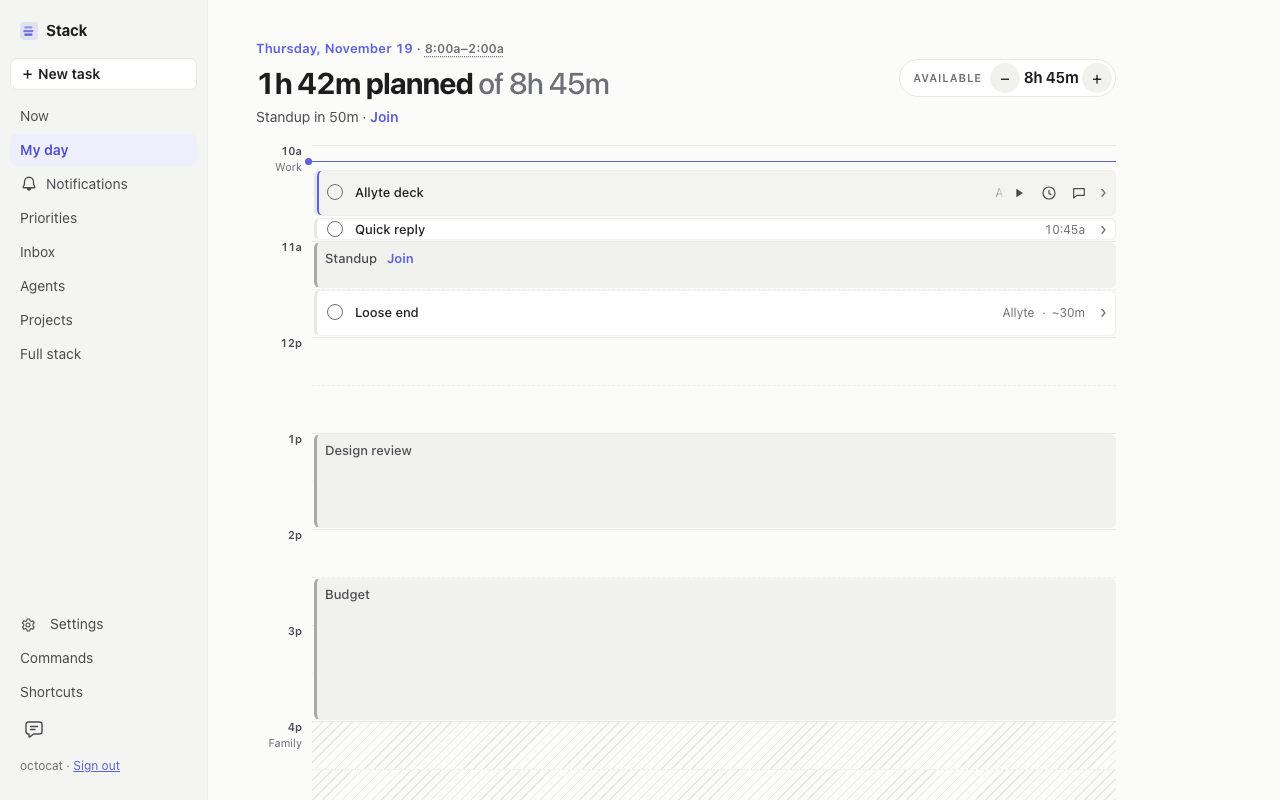
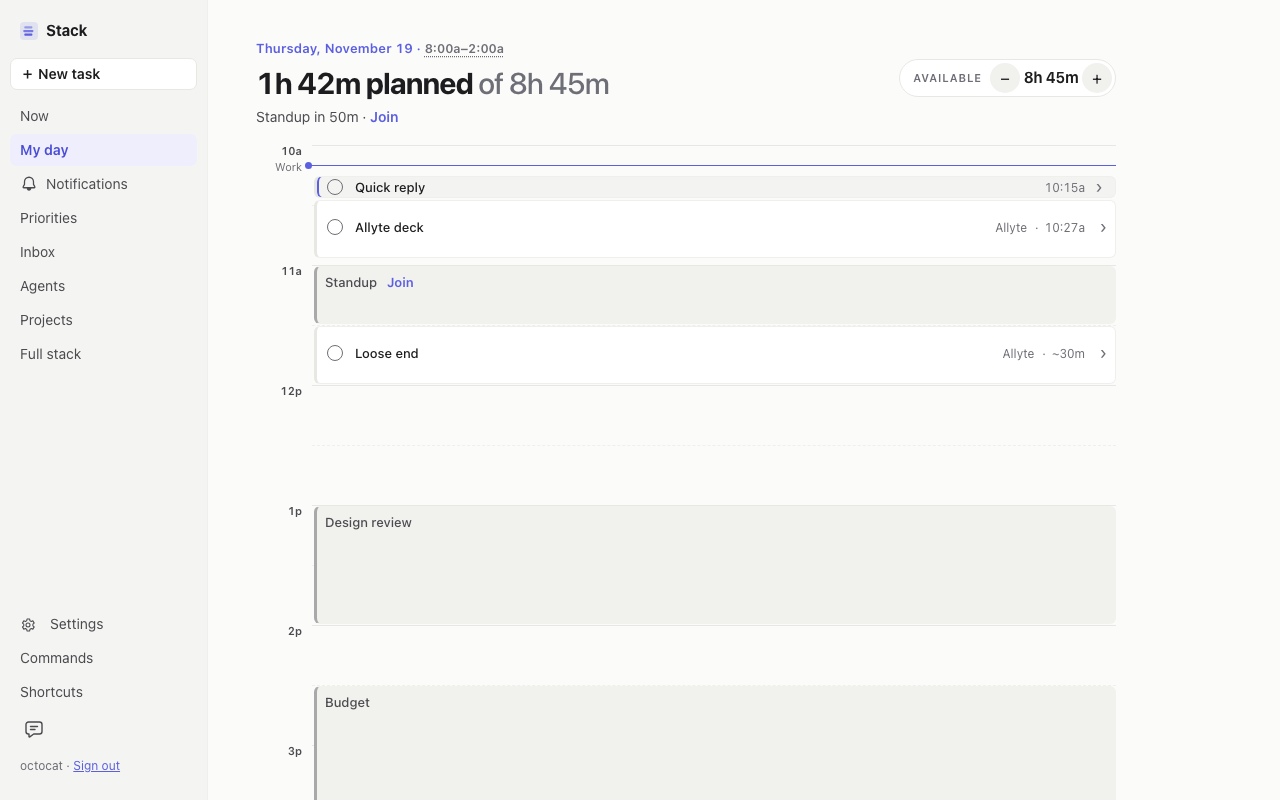
fix(my-day): Size rows from the shortest effort so no block needs a least height
Review round 3. A 12-minute task must keep a 24 px target (44 px on
touch), so 30 minutes is 60 px (112 px on touch). Blocks keep their
true height and never cover or squeeze each other.

diff --git a/web/e2e/myday.spec.ts b/web/e2e/myday.spec.ts
@@ -134,7 +134,7 @@ test.describe('My day v2', () => {
   test('day grid: every 30-minute row has one height; a 60-minute block is exactly double; empty slots stay', async ({ page }, info) => {
     const ev = (id: string, h: number, m: number, min: number) => ({ id, subject: id, start: at(h, m).toISOString(), end: new Date(at(h, m).getTime() + min * 60_000).toISOString(), allDay: false, showAs: 'busy', cancelled: false, online: id === 'Standup', ...(id === 'Standup' ? { joinUrl: 'https://teams.example.test/j' } : {}) });
     await page.clock.install({ time: at(10, 10) });
-    const tasks = [row('allyte:1', 'Allyte deck 🟢', 'allyte'), row('allyte:2', 'Quick reply 🔹', 'allyte'), row('allyte:3', 'Loose end', 'allyte'), row('stack:1', 'Stack fix 🟢', 'stack')];
+    const tasks = [row('allyte:1', 'Quick reply 🔹', 'allyte'), row('allyte:2', 'Allyte deck 🟢', 'allyte'), row('allyte:3', 'Loose end', 'allyte'), row('stack:1', 'Stack fix 🟢', 'stack')];
     const m = await mockApi(page, { tasks, projects: PROJECTS as never });
     m.schedule = schedule();
     m.events = [ev('Standup', 11, 0, 30), ev('Design review', 13, 0, 60), ev('Budget', 14, 30, 90)] as never;
@@ -148,17 +148,24 @@ test.describe('My day v2', () => {
     expect(rows).toHaveLength(32);
     expect(new Set(rows).size).toBe(1);
     const slot = rows[0];
-    expect(slot).toBe(info.project.name === 'mobile' ? 96 : 48);
+    expect(slot).toBe(info.project.name === 'mobile' ? 112 : 60);
     expect(await h('.meeting', 'Standup')).toBe(slot);
     expect(await h('.meeting', 'Design review')).toBe(slot * 2);
     expect(await h('.meeting', 'Budget')).toBe(slot * 3);
     expect(await h('.block', 'Allyte deck')).toBe(slot);
-    expect(await h('.block.short', 'Quick reply')).toBe(slot / 2); // 12 min draws as 15: the target stays 24 px (48 px on touch)
+    expect(await h('.block.short', 'Quick reply')).toBeCloseTo(slot * 0.4, 1); // 12 min: 24 px (44 px on touch), in proportion
+    for (const target of ['.tick', '.row-open']) expect(await plan.locator(`.block.short ${target}`).evaluate((el) => el.getBoundingClientRect().height)).toBeGreaterThanOrEqual(info.project.name === 'mobile' ? 44 : 24);
     await expect(plan.locator('.block').filter({ hasText: 'Loose end' }).locator('.what-meta')).toContainText('~30m'); // an estimate keeps its mark @req FR:web-app/today.plan
     await expect(plan.locator('.block.short .row-acts')).toBeHidden();
-    await expect(plan.locator('.block.short .what-meta .at')).toHaveText('10:45a'); // a start off the half hour shows, on a short block too
-    // The whole height of the short block takes a tap: the block after it does not cover its bottom edge.
-    expect(await plan.locator('.block.short').evaluate((el) => { const r = el.getBoundingClientRect(); return !!document.elementFromPoint(r.left + r.width / 2, r.bottom - 3)?.closest('.block.short'); })).toBe(true);
+    await expect(plan.locator('.block.short .what-meta .at')).toHaveText('10:15a'); // a start off the half hour shows, on a short block too
+    await expect(plan.locator('.block').filter({ hasText: 'Allyte deck' }).locator('.what-meta .at')).toHaveText('10:27a');
+    // Allyte deck starts at 10:27a, right under the short block: full width, and no block covers another.
+    const boxes = await plan.locator('.ui-grid-item').evaluateAll((els) => els.map((el) => { const r = el.getBoundingClientRect(); return { l: r.left, t: r.top, r: r.right, b: r.bottom }; }));
+    const hit = boxes.flatMap((a, i) => boxes.slice(i + 1).filter((b) => a.l < b.r - 0.5 && b.l < a.r - 0.5 && a.t < b.b - 0.5 && b.t < a.b - 0.5));
+    expect(hit).toEqual([]);
+    const [shortBox, deckBox] = [await plan.locator('.ui-grid-item').filter({ hasText: 'Quick reply' }).boundingBox(), await plan.locator('.ui-grid-item').filter({ hasText: 'Allyte deck' }).boundingBox()];
+    expect(deckBox!.width).toBe(shortBox!.width);
+    expect(deckBox!.y).toBeGreaterThanOrEqual(shortBox!.y + shortBox!.height - 0.5);
     // A block sits at its real time: Standup starts 2 rows below the 10:00a grid top.
     const top = (await page.locator('.ui-slot').first().boundingBox())!.y;
     expect(Math.round((await plan.locator('.ui-grid-item').filter({ hasText: 'Standup' }).boundingBox())!.y - top)).toBe(slot * 2);

diff --git a/web/src/ui/DayGrid.tsx b/web/src/ui/DayGrid.tsx
@@ -8,23 +8,26 @@ import './ui.css';
 
 /** Minutes in one row. */
 export const SLOT_MIN = 30;
-/** The least height of an item, in rows (15 minutes): its target stays 24 px, 48 px on touch. */
-export const MIN_SIZE = 0.5;
+/** The least height of an item, in rows (12 minutes, the shortest effort): at the row heights in `ui.css` its target stays 24 px, 44 px on touch. */
+export const MIN_SIZE = 0.4;
 
 export interface GridSpan { /** Start, in minutes after midnight. */ start: number; /** End, in minutes after midnight. */ end: number }
 export interface GridItem extends GridSpan { key: string; node: ComponentChild }
 export interface GridBand extends GridSpan { label: string; /** Tint the band's rows (time that is not for work). */ muted?: boolean }
-/** Where an item sits: `top` and `size` in rows (30 minutes is 1, never under `MIN_SIZE`); `lane` of `lanes` when items overlap in time. */
-export interface Placed<T> { item: T; top: number; size: number; lane: number; lanes: number; /** Drawn higher than its length: it sits above the item after it, so its whole height takes a tap. */ raised?: true }
+/** Where an item sits: `top` and `size` in rows (30 minutes is 1); `lane` of `lanes` when items overlap. */
+export interface Placed<T> { item: T; top: number; size: number; lane: number; lanes: number }
 
 /**
  * Lay items out on the span `from` to `to`: clip each to the span, drop the ones outside it, sort by start,
- * and put items that overlap in time side by side. Pure.
+ * and put items that overlap side by side. An item under 12 minutes is drawn 12 minutes high (never past the last row),
+ * and overlap is judged on the drawn height, so no item ever covers another. Pure.
  */
 export function placeItems<T extends GridSpan>(items: T[], from: number, to: number): Placed<T>[] {
   const shown = items
     .map((item) => ({ item, a: Math.max(item.start, from), z: Math.min(item.end, to) }))
     .filter((x) => x.z > x.a)
+    // Only an item that is short by itself gets the least height; one cut by the span keeps its cut size.
+    .map((x) => (x.item.end - x.item.start < MIN_SIZE * SLOT_MIN ? { ...x, z: Math.min(to, Math.max(x.z, x.a + MIN_SIZE * SLOT_MIN)) } : x))
     .sort((x, y) => x.a - y.a || y.z - x.z);
   const out: Placed<T>[] = [];
   let group: { p: Placed<T>; z: number }[] = [];
@@ -35,10 +38,7 @@ export function placeItems<T extends GridSpan>(items: T[], from: number, to: num
     const taken = new Set(group.filter((g) => g.z > x.a).map((g) => g.p.lane));
     let lane = 0;
     while (taken.has(lane)) lane++;
-    // Only an item that is short by itself gets the least height; one cut by the span keeps its cut size. Never past the last row.
-    const size = (x.z - x.a) / SLOT_MIN;
-    const short = x.item.end - x.item.start < MIN_SIZE * SLOT_MIN && size < MIN_SIZE;
-    const p: Placed<T> = { item: x.item, top: (x.a - from) / SLOT_MIN, size: short ? Math.min(MIN_SIZE, (to - x.a) / SLOT_MIN) : size, lane, lanes: 1, ...(short ? { raised: true as const } : {}) };
+    const p: Placed<T> = { item: x.item, top: (x.a - from) / SLOT_MIN, size: (x.z - x.a) / SLOT_MIN, lane, lanes: 1 };
     group.push({ p, z: x.z });
     groupEnd = Math.max(groupEnd, x.z);
     out.push(p);
@@ -78,7 +78,7 @@ export function DayGrid({ label, from, to, items, bands = [], now, testid }: {
       </ol>
       <ol class="ui-grid-items" aria-label={label} data-testid={testid}>
         {placeItems(items, start, end).map((p) => (
-          <li key={p.item.key} class={`ui-grid-item${p.raised ? ' raised' : ''}`} style={{ '--top': p.top, '--size': p.size, '--lane': p.lane, '--lanes': p.lanes }}>{p.item.node}</li>
+          <li key={p.item.key} class="ui-grid-item" style={{ '--top': p.top, '--size': p.size, '--lane': p.lane, '--lanes': p.lanes }}>{p.item.node}</li>
         ))}
       </ol>
       {now !== undefined && now >= start && now < end && <div class="now-line ui-grid-now" role="img" aria-label={`Now ${clock(now)}`} style={{ '--top': (now - start) / SLOT_MIN }} />}

diff --git a/web/tests/ui-kit.test.tsx b/web/tests/ui-kit.test.tsx
@@ -169,17 +169,20 @@ describe('DayGrid', () => {
   const it30 = { key: 'a', start: 600, end: 630 }, it60 = { key: 'b', start: 660, end: 720 }, it15 = { key: 'c', start: 735, end: 750 }, it12 = { key: 'd', start: 750, end: 762 };
   it('placeItems: size is in proportion to length, top to start', () => {
     const p = placeItems([it60, it30, it15, it12], 600, 780);
-    // an item under 15 minutes keeps the height of 15 minutes, so its target stays usable; lanes follow real times
-    expect(p.map((x) => [x.item.key, x.top, x.size])).toEqual([['a', 0, 1], ['b', 2, 2], ['c', 4.5, 0.5], ['d', 5, 0.5]]);
+    expect(p.map((x) => [x.item.key, x.top, x.size])).toEqual([['a', 0, 1], ['b', 2, 2], ['c', 4.5, 0.5], ['d', 5, 0.4]]);
     expect(p.every((x) => x.lane === 0 && x.lanes === 1)).toBe(true);
-    expect(p.map((x) => x.raised ?? false)).toEqual([false, false, false, true]); // only the one drawn higher than its length sits above the next
   });
   it('placeItems: clips to the span and drops items outside it', () => {
     const p = placeItems([{ key: 'early', start: 540, end: 630 }, { key: 'late', start: 760, end: 840 }, { key: 'out', start: 900, end: 930 }], 600, 780);
     expect(p.map((x) => [x.item.key, x.top, x.size])).toEqual([['early', 0, 1], ['late', 16 / 3, 2 / 3]]);
     // an item cut by the span keeps its cut size; a short one at the end stops at the last row
-    expect(placeItems([{ key: 'cut', start: 560, end: 605 }, { key: 'end', start: 775, end: 780 }], 600, 780).map((x) => [x.item.key, x.size, x.raised ?? false])).toEqual([['cut', 5 / 30, false], ['end', 5 / 30, true]]);
-    expect(placeItems([{ key: 'x', start: 600, end: 612 }, { key: 'y', start: 612, end: 642 }], 600, 780).map((x) => [x.lane, x.lanes])).toEqual([[0, 1], [0, 1]]);
+    expect(placeItems([{ key: 'cut', start: 560, end: 605 }, { key: 'end', start: 775, end: 780 }], 600, 780).map((x) => [x.item.key, x.size])).toEqual([['cut', 5 / 30], ['end', 5 / 30]]);
+    // back to back, 12 minutes and up: one under the other, full width
+    expect(placeItems([{ key: 'x', start: 600, end: 612 }, { key: 'y', start: 612, end: 642 }, { key: 'z', start: 642, end: 672 }], 600, 780).map((x) => [x.size, x.lane, x.lanes])).toEqual([[0.4, 0, 1], [1, 0, 1], [1, 0, 1]]);
+    // an item under 12 minutes is drawn 12 minutes high; overlap is judged on the drawn height, so the next item sits beside it, never under it
+    expect(placeItems([{ key: 'x', start: 600, end: 605 }, { key: 'y', start: 605, end: 635 }], 600, 780).map((x) => [x.size, x.lane, x.lanes])).toEqual([[0.4, 0, 2], [1, 1, 2]]);
+    expect(placeItems([{ key: 'x', start: 600, end: 605 }, { key: 'y', start: 605, end: 610 }], 600, 780).map((x) => [x.lane, x.lanes])).toEqual([[0, 2], [1, 2]]);
+
   });
   it('placeItems: items that overlap sit side by side; later ones get the full width again', () => {
     const p = placeItems([{ key: 'a', start: 600, end: 660 }, { key: 'b', start: 630, end: 690 }, { key: 'c', start: 660, end: 690 }, { key: 'd', start: 720, end: 750 }], 600, 780);
@@ -198,7 +201,6 @@ describe('DayGrid', () => {
     const list = r.querySelector('[data-testid="plan"]')!;
     expect(list.tagName).toBe('OL');
     expect(list.getAttribute('aria-label')).toBe('Day');
-    expect(mount(<DayGrid label="Day" from={600} to={780} items={[{ key: 's', start: 600, end: 612, node: <b>Short</b> }]} />).querySelector('.ui-grid-item')!.classList.contains('raised')).toBe(true);
     const items = [...list.querySelectorAll<HTMLElement>(':scope > li.ui-grid-item')];
     expect(items.map((x) => x.textContent)).toEqual(['Thirty', 'Sixty']);
     expect(items.map((x) => [x.style.getPropertyValue('--top'), x.style.getPropertyValue('--size')])).toEqual([['0', '1'], ['2', '2']]);

diff --git a/web/src/myday.css b/web/src/myday.css
@@ -100,11 +100,16 @@ section.today .ui-grid { margin-top: 12px; }
 section.today .ui-grid .block, section.today .ui-grid .meeting, section.today .ui-grid .email-block { display: block; height: 100%; min-height: 0; padding: 0; }
 section.today .ui-grid .when { position: absolute; width: 1px; height: 1px; overflow: hidden; clip-path: inset(50%); white-space: nowrap; padding: 0; }
 section.today .ui-grid .what { box-sizing: border-box; height: 100%; min-height: 0; margin: 0; overflow: hidden; border: 1px solid var(--line2); border-left: 3px solid var(--line); border-radius: 6px; background: var(--panel); }
-section.today .ui-grid .block .what { align-content: start; align-items: center; padding: 9px 4px 0 6px; }
-section.today .ui-grid .block.short .what { align-content: center; padding-top: 0; padding-bottom: 0; grid-template-columns: 22px minmax(0, 1fr) auto 16px; grid-template-areas: 'tick title meta chev'; }
+section.today .ui-grid .block .what { align-content: start; align-items: center; padding: 14px 4px 0 6px; }
+section.today .ui-grid .block.short .what { align-content: stretch; align-items: stretch; grid-template-rows: minmax(0, 1fr); padding-top: 0; padding-bottom: 0; grid-template-columns: 22px minmax(0, 1fr) auto 16px; grid-template-areas: 'tick title meta chev'; }
 section.today .ui-grid .block.short .row-acts, section.today .ui-grid .block.short .what-meta > :not(.at) { display: none; }
 section.today .ui-grid .block.short .what-meta > .at::before { content: none; }
-section.today .ui-grid .block.short .tick, section.today .ui-grid .block.short .row-open { min-height: 0; height: 100%; max-height: var(--tap); }
+section.today .ui-grid .block.short .tick, section.today .ui-grid .block.short .row-open { min-height: 0; height: auto; align-self: stretch; }
+section.today .ui-grid .block.short .what-title, section.today .ui-grid .block.short .what-meta, section.today .ui-grid .block.short .chev { display: flex; align-items: center; align-self: stretch; }
+section.today .ui-grid .block.short .row-open { flex: 1; min-width: 0; }
+/* The targets take the whole row height: they reach over the block's 1 px border and the 1 px gap, above and below. */
+section.today .ui-grid .block.short .what { overflow: visible; }
+section.today .ui-grid .block.short .tick, section.today .ui-grid .block.short .what-title { margin-block: -2px; }
 section.today .ui-grid .block.short .what-title { white-space: nowrap; }
 section.today .ui-grid .what-meta { overflow: hidden; }
 section.today .ui-grid .meeting .what, section.today .ui-grid .email-block .what { padding: 5px 8px; background: var(--chip); border-color: transparent; border-left-color: color-mix(in srgb, var(--muted) 55%, transparent); }
@@ -115,10 +120,9 @@ section.today .ui-grid .m-line .join { font-weight: 600; text-decoration: none; 
 section.today .ui-grid .when.off { position: static; width: auto; height: auto; clip-path: none; float: right; display: block; font-size: 11px; font-weight: 500; color: var(--muted); padding: 5px 8px 0 0; }
 section.today .ui-grid .when.off small { display: none; }
 @media (max-width: 800px), (hover: none) {
-  section.today .ui-grid .block .what { padding: 2px 2px 0 2px; }
+  section.today .ui-grid .block .what { padding: 8px 2px 0 2px; }
   section.today .ui-grid .block:not(.short) .what-title { white-space: nowrap; }
   section.today .ui-grid .block .tick { align-self: start; margin-top: 0; }
-  section.today .ui-grid .block.short .tick { align-self: center; }
   section.today .ui-grid .block.short .what { grid-template-columns: 44px minmax(0, 1fr) auto 16px; grid-template-areas: 'tick title meta chev'; }
   section.today .ui-grid .block .chev { justify-self: end; padding-right: 6px; }
 }

diff --git a/web/src/ui/ui.css b/web/src/ui/ui.css
@@ -81,7 +81,7 @@
 .ui-back { margin-bottom: var(--fl-s-s); }
 
 /* Day grid: every 30-minute row is --ui-slot high; an item's top and height are its start and length in rows. @req FR:ui-kit/daygrid */
-.ui-grid { position: relative; --ui-slot: 48px; --ui-gutter: 56px; }
+.ui-grid { position: relative; --ui-slot: 60px; --ui-gutter: 56px; }
 .ui-slots, .ui-grid-items { list-style: none; margin: 0; padding: 0; }
 .ui-slot { box-sizing: border-box; height: var(--ui-slot); display: grid; grid-template-columns: var(--ui-gutter) minmax(0, 1fr); }
 .ui-slot::after { content: ''; border-top: 1px dashed var(--line2); }
@@ -92,8 +92,6 @@
 .ui-slot-band { max-width: 100%; overflow: hidden; text-overflow: ellipsis; white-space: nowrap; }
 .ui-grid-items { position: absolute; inset: 0 0 0 var(--ui-gutter); pointer-events: none; }
 .ui-grid-item { position: absolute; box-sizing: border-box; top: calc(var(--top) * var(--ui-slot)); height: calc(var(--size) * var(--ui-slot)); left: calc(var(--lane) * 100% / var(--lanes)); width: calc(100% / var(--lanes)); padding: 1px 0 1px 2px; pointer-events: auto; }
-/* An item drawn higher than its length sits above the next one, so its whole height takes a tap. */
-.ui-grid-item.raised { z-index: 1; }
 .ui-grid .ui-grid-now { position: absolute; left: calc(var(--ui-gutter) - 4px); right: 0; top: calc(var(--top) * var(--ui-slot)); height: 0; margin: 0; border-top: 1px solid var(--accent); pointer-events: none; z-index: 2; }
 .ui-grid .ui-grid-now::before { content: ''; position: absolute; left: -3px; top: -4px; width: 7px; height: 7px; border-radius: 50%; background: var(--accent); }
-@media (max-width: 800px), (hover: none) { .ui-grid { --ui-slot: 96px; --ui-gutter: 44px; } .ui-slot-when { padding-right: 6px; } }
+@media (max-width: 800px), (hover: none) { .ui-grid { --ui-slot: 112px; --ui-gutter: 44px; } .ui-slot-when { padding-right: 6px; } }

diff --git a/.xe/features/home/spec.md b/.xe/features/home/spec.md
@@ -40,7 +40,7 @@ Home itself (the one thing, fit, up next, projects, countdowns) is `FR:web-app/h
 ### FR:myday: My day (the schedule)
 
 - **FR:myday.timeline** (P1): My day (`g t`) is a day grid (`FR:ui-kit/daygrid`) of 30-minute rows, from the half hour that holds now (wake when the day has not started) to bed or the last planned end. Every row has the same height, and an empty slot is an empty row. Meetings, planned tasks and the email block sit at their real start, with a height in proportion to their length: 30 minutes is one row, 60 minutes is exactly two. A row under way starts at the top of the grid. The time column names each hour; a schedule block's label (`Work`, `Family`) sits in the time column at its first row, and personal time has a muted tint. A now line marks the current time. A block shows its own start time only when it does not start on a half hour, and a task block keeps its estimate mark (`~30m`, `2h+`; `FR:web-app/today.plan`). Assistive tech reads every block's start and length
-- **FR:myday.short** (P2): A task block shorter than 30 minutes is one line: the done circle and the title. Its other actions are in the task detail. It is never drawn under 15 minutes high
+- **FR:myday.short** (P2): A task block shorter than 30 minutes is one line: the done circle and the title. Its other actions are in the task detail.
 - **FR:myday.header** (P1): The My day header is the date line, the headline (`{planned} of {available}`), the Available control, and one line that shows only what needs action: at-risk tasks that do not fit, `No calendar`, and the next meeting with `Join`. It has no day bar, no free or meeting totals, and no jump links
 - **FR:myday.overflow** (P1): What does not fit is one collapsed line at the end (`{n} don't fit`, plus `· {k} due soon` in the warning color when any are at risk); expanded it lists at-risk tasks first (12 at most) then `{n} later`
 - **FR:myday.actions** (P1): Every task row of 30 minutes or more has one-tap Done, Start, Defer 2h, and Message `<agent>`; a shorter one has Done (`FR:myday.short`) (icon buttons with labels and no key badges; 44 px targets on touch). One click or tap on the row opens the task detail (`FR:task-detail-design/detail.open`). Keys work on the cursor row: `s`, `d`, `n`, `z`, `a`, Enter

diff --git a/.xe/features/design-decisions.md b/.xe/features/design-decisions.md
@@ -308,10 +308,10 @@
 
 ## My day: a day grid with equal 30-minute rows
 
-**Decision**: My day draws the plan on `DayGrid` (`FR:ui-kit/daygrid`): rows of 30 minutes, all one height (48 px; 96 px on touch), from now to bed. A block's height is its length (60 minutes is exactly two rows). The header keeps the date, the headline, Available, and one line of what needs action.
+**Decision**: My day draws the plan on `DayGrid` (`FR:ui-kit/daygrid`): rows of 30 minutes, all one height (60 px; 112 px on touch), from now to bed. A block's height is its length (60 minutes is exactly two rows). The header keeps the date, the headline, Available, and one line of what needs action.
 
 **Date**: 2026-11-19
 
 **Why**: The owner said My day was cluttered and its time slots were uneven. The old timeline sized rows by their content, and added band headers, `free` rows, a day bar and totals.
 
-**Trade-offs**: The touch row is 96 px so a 30-minute task keeps its one-tap actions at 44 px (`FR:home/myday.actions`); a phone shows about 3 hours. A block under 30 minutes is one line (Done and open); under 14 minutes its target is below 44 px on touch. The grid starts at now, not at wake, so there are no dead rows and no scroll jump. Rejected: snap blocks to rows (a 20-minute email block would push every later block off its time); a 56 px touch row with the row actions only in the task detail.
+**Trade-offs**: The row height comes from the shortest effort: a 12-minute task (🔹) must keep a 24 px target (44 px on touch), so 30 minutes is 60 px (112 px on touch). A 30-minute task then also keeps its one-tap actions at 44 px (`FR:home/myday.actions`). A phone shows about 3 hours. A block under 30 minutes is one line (Done and open). Rejected: a least height above the true length (the next block covers it, or sits beside it at half width; both tested, both poor at 375 px). The grid starts at now, not at wake, so there are no dead rows and no scroll jump. Rejected: snap blocks to rows (a 20-minute email block would push every later block off its time); a 56 px touch row with the row actions only in the task detail.

diff --git a/.xe/features/ui-kit/spec.md b/.xe/features/ui-kit/spec.md
@@ -51,7 +51,7 @@ The owner needs every list view to look and act the same so that he reads a PR, 
 
 ### FR:daygrid: Day grid
 
-- **FR:daygrid** (P1): `DayGrid` shows a span of a day as rows of 30 minutes. Every row has the same height (`--ui-slot`: 48 px, 96 px on touch), and a row with no item is empty. The time column names each hour (`10a`). An item sits at its start time with a height in proportion to its length, so 30 minutes is one row and 60 minutes is exactly two; an item is clipped to the grid span. An item under 15 minutes has the height of 15 minutes and sits above the item after it, so its target is never under 24 px (48 px on touch); an item cut by the span keeps its cut size. Items that overlap in time sit side by side in lanes. A band labels a time range in the time column at its first row; a `muted` band tints its rows. `now` draws one line at that time when it is inside the span. Items are a list in time order; the rows are decoration, hidden from assistive tech. `placeItems` is the pure layout
+- **FR:daygrid** (P1): `DayGrid` shows a span of a day as rows of 30 minutes. Every row has the same height (`--ui-slot`: 60 px, 112 px on touch), and a row with no item is empty. The time column names each hour (`10a`). An item sits at its start time with a height in proportion to its length, so 30 minutes is one row and 60 minutes is exactly two; an item is clipped to the grid span. An item under 12 minutes (the shortest effort) has the height of 12 minutes, so a target is never under 24 px (44 px on touch); an item cut by the span keeps its cut size. Items that overlap sit side by side in lanes; overlap is judged on the drawn height, so no item covers another. A band labels a time range in the time column at its first row; a `muted` band tints its rows. `now` draws one line at that time when it is inside the span. Items are a list in time order; the rows are decoration, hidden from assistive tech. `placeItems` is the pure layout
 
 ### FR:a11y: Access
 
